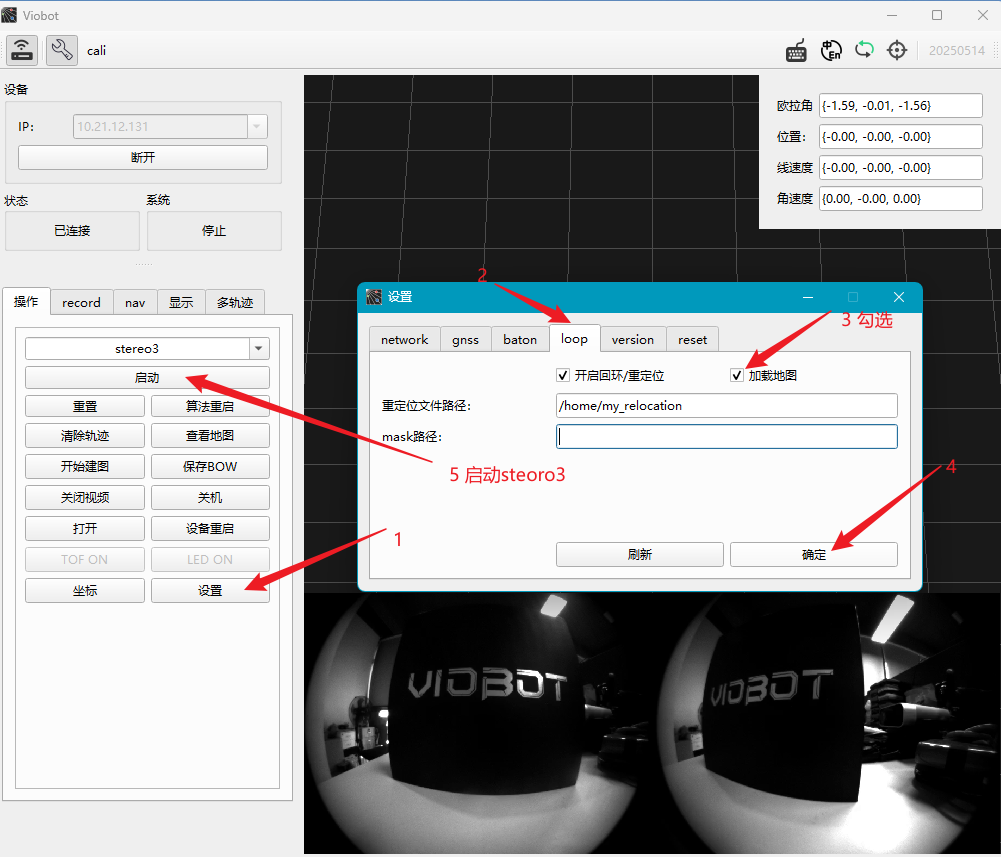
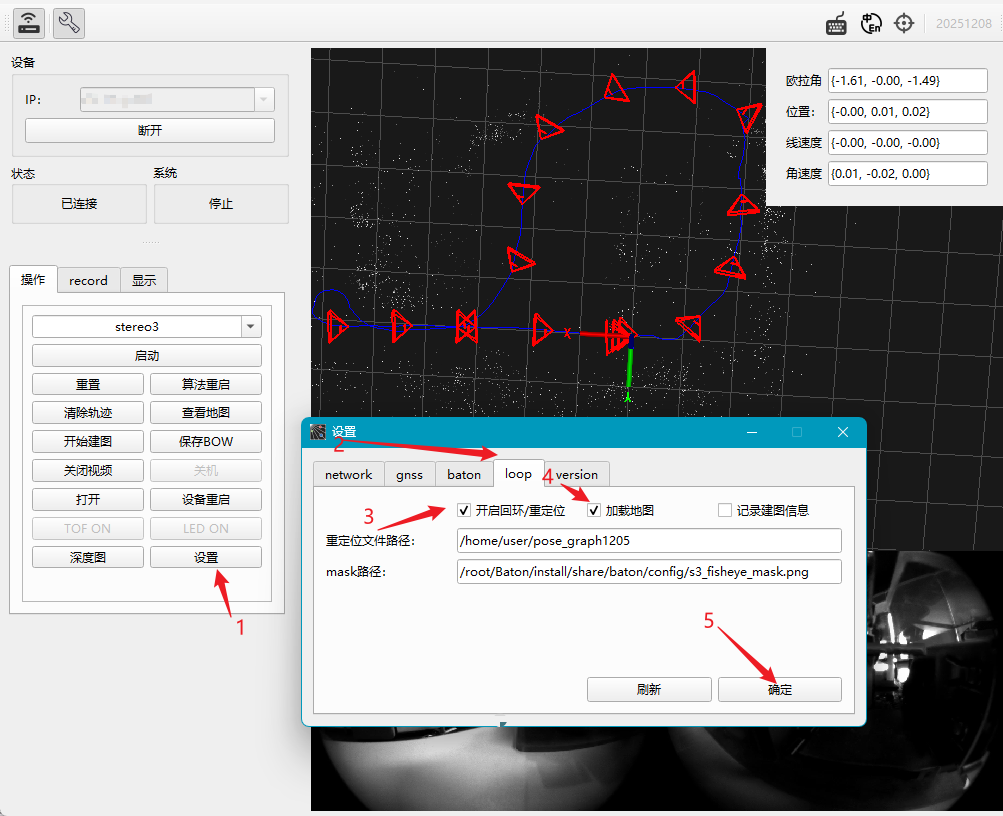
update(rtk_relocation)

diff --git a/source/application/HM建图与重定位.md b/source/application/HM建图与重定位.md
@@ -6,11 +6,11 @@
 > - HM Localization + 组合导航，结合HM Perception实现中低速自由探索；
 
 **注意：**
-> - <font color='#eb0b0bff'>目前viobot2系统版本为202511xx及之后的版本建图需要最新版本的上位机UI配合使用,请参考本章《SFM重定位新版本UI使用》，11月之前的算法版本不受影响</font>
+> - <font color='#FF0000'>目前viobot2系统版本为202511xx及之后的版本建图需要最新版本的上位机UI配合使用,请参考本章《SFM重定位新版本UI使用》，11月之前的算法版本不受影响</font>
 > - <font color='#FF0000'>不支持：如雪原、隧道等视觉特征/光照太差的场景、精度要求极高的严肃工业场景海拔30米向上飞行场景。</font>
 > - <font color='#FF0000'>目前SFM重建在无纹理区域、走廊白墙场景容易失败。</font>
 > - <font color='#FF0000'>目前重定位在平坦、开阔、近处特征少的场景重定位精度会降低，系统仍然可以依靠GNSS、RTK以及视觉定位正常工作。</font>
-> - <font color='#FF0000'>重定位并未与GNSS、RTK的信息做耦合，之后有计划做适配，请用户敬请期待。</font>
+
 
 
 
@@ -118,9 +118,57 @@ root@PR-VIO:/home/my_relocation# tree
             `-- points3D.bin
 ```
 至此，使用viobot建图的步骤都已完成，下面开始使用建图的结果来跑重定位。
+
+## RTK融合建图
+
+> 注意：此部分只适用于想要将sfm建图+rtk定位结果融合到一起提供更准确的建图效果的情况，一般直接使用视觉的SFM建图就能满足建图精度以及重定位效果。
+> 目前此功能并未完全发布，还在稳定性测试中。
+
+**流程：**
+1. 按照手册中[《融合位姿/视觉融合RTK》](https://baton-doc.readthedocs.io/en/viobot2/%E8%9E%8D%E5%90%88%E4%BD%8D%E5%A7%BF/%E8%A7%86%E8%A7%89%E8%9E%8D%E5%90%88%E5%8D%95%E5%A4%A9%E7%BA%BFRTK.html#rtk)的步骤先将rtk的驱动、gnss配置项修改好；
+2. gnss配置项、/rtk_nmea话题可发布之后，检查`/baton/rtk`是否可以发布；
+3. 启动最新版上位机[roboBaton V20251031](https://www.hessian-matrix.com/wp-content/uploads/2025/11/Viobot_customer_Setup.zip),设置-loop-勾选开启建图/重定位-修改重定位文件路径-勾选记录建图信息
+4. 勾选记录建图信息之后启动stereo3，对着建图区域运行，采集完建图区域的数据之后，上位机上停止算法；
+5. 最后是上位机上点开始建图
+
+第二步中一定要先检查rtk是否可以固定解，可以通过echo `/baton/rtk`话题来判定是否固定解：
+``` shell
+header:
+  stamp:
+    sec: 1759141703
+    nanosec: 305476864
+  frame_id: rtk
+status:
+  status: 2     #2 即为固定解，其他状态不是固定解
+  service: 0
+latitude: 22.81607205183333
+longitude: 113.49725767266666
+altitude: -1.7479999999999998
+position_covariance:
+- 0.054450000000000005
+- 0.0
+- 0.0
+- 0.0
+- 0.054450000000000005
+- 0.0
+- 0.0
+- 0.0
+- 0.054450000000000005
+position_covariance_type: 48
+```
+
+其中第三步中的详细步骤如下：
+![alt text](image/image_set_map_config.png)
+勾选之后运行再运行stereo3，程序会自动启动一个名为`extract_sfm`的节点收集建图数据，注意：停止stereo3之后loop配置页中的**记录建图信息**会自动取消勾选。
+
+完成建图数据采集后，程序会在第三步设置的路径中保存很多文件，其中一个文件名为`ecef_coordinates.txt`，确保其中有内容，否则RTk建图仍为视觉建图。
+
+完成建图之后的使用方式也和重定位的内容一致。
+
 ## 运行重定位
-接下来就是用前面已经建好的图运行重定位功能，首选还是在UI上的设置 loop一栏勾选加载地图选项再保存，然后运行stereo3算法。
+接下来就是用前面已经建好的图运行重定位功能，首选还是在UI上的设置 loop一栏勾选**开启回环/重定位**以及**加载地图**选项再保存，然后运行stereo3算法。
 ![](image/image_start_relocation.png)
+![alt text](image.png)
 
 之后在Viobot-UI上位机上会输出一条融合后的轨迹，可以尝试让设备多次运行到同一个地方查看轨迹的变化。以下是在室内重复多次运行的一个结果，可以看到有重定位的加入后长时间工作里程计更准确：
 ![](image/image_hmsfm_result.png)
